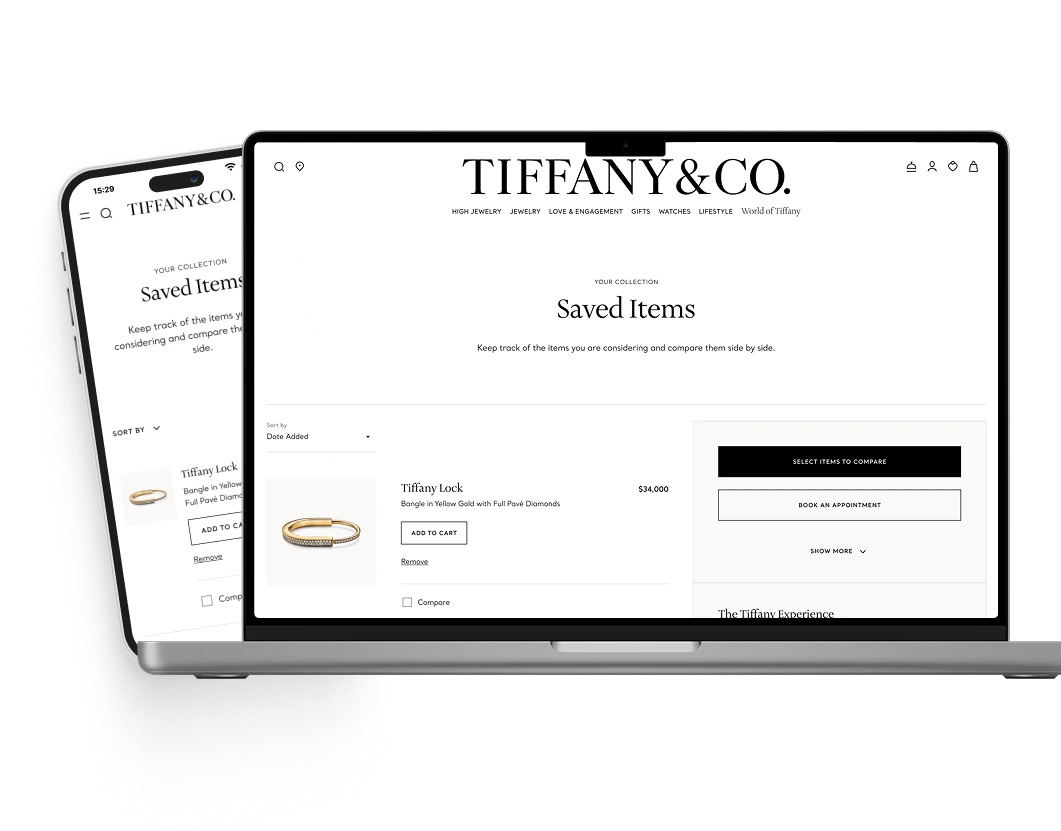
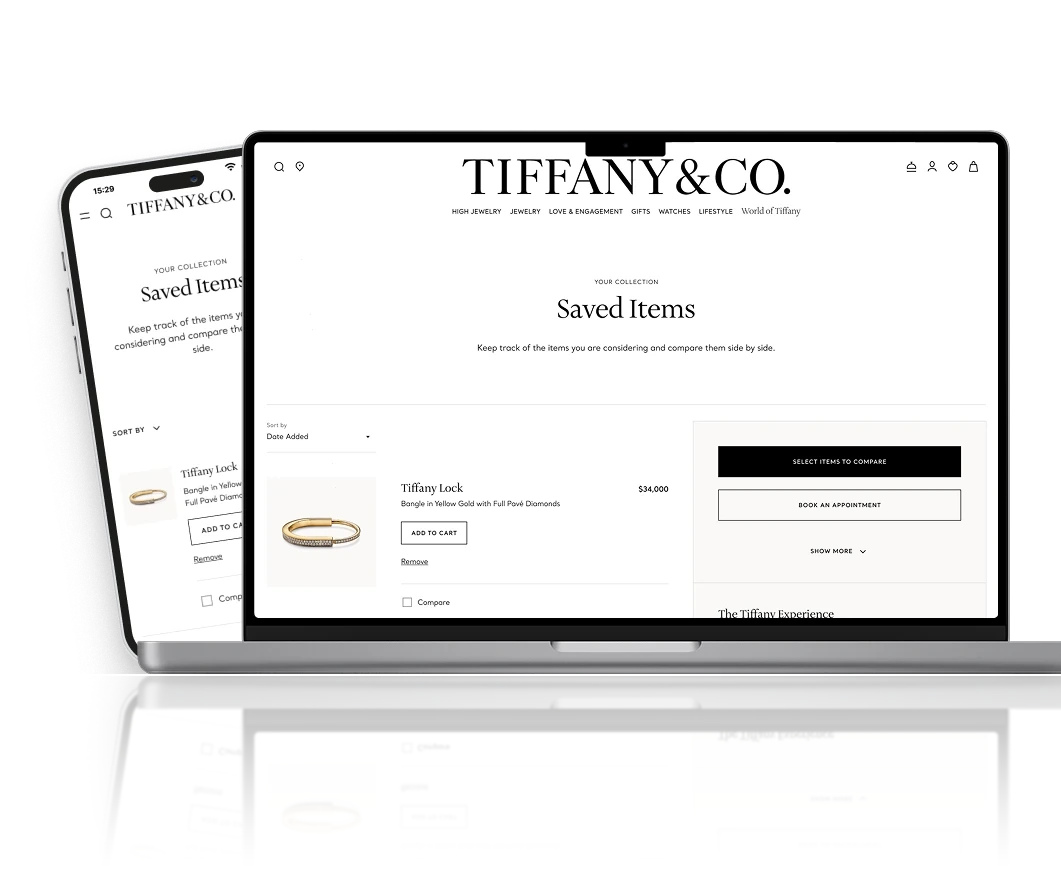
Lift Night Edition cards and bar, match the highlighter to Day, and make the date stamps neutral

diff --git a/case-studies/tiffany-wishlist/index.html b/case-studies/tiffany-wishlist/index.html
@@ -26,9 +26,9 @@
   <link rel="preconnect" href="https://fonts.gstatic.com" crossorigin>
   <link href="https://fonts.googleapis.com/css2?family=Playfair+Display:ital,wght@0,700;0,900;1,900&family=Lora:ital,wght@0,400;0,700;1,400&family=Inter:wght@400;500;600;700&family=Manufacturing+Consent&display=swap" rel="stylesheet">
   <!-- Same ?v= as index.html; bump all three together -->
-  <link rel="stylesheet" href="../../assets/css/style.css?v=2026-11-25e">
-  <link rel="stylesheet" href="../../assets/css/case-study.css?v=2026-11-25e">
-  <script src="../../assets/js/main.js?v=2026-11-25e" defer></script>
+  <link rel="stylesheet" href="../../assets/css/style.css?v=2026-11-25g">
+  <link rel="stylesheet" href="../../assets/css/case-study.css?v=2026-11-25g">
+  <script src="../../assets/js/main.js?v=2026-11-25g" defer></script>
 </head>
 <body>
 
@@ -121,8 +121,8 @@
     <p class="cs-role"><span class="cs-role-title">UX Design Intern</span><span class="cs-role-meta">Tiffany &amp; Co.<span class="cs-sep" aria-hidden="true">|</span>10&nbsp;weeks</span></p>
   </div>
   <!-- Transparent cut-out, so it sits on the page without the gold frame (.cs-media--bare) -->
-  <figure class="cs-media cs-media--bare animate-in delay-1" style="--ratio:1061/831">
-    <img src="assets/images/hero.webp" width="1061" height="831" alt="A laptop showing the Tiffany &amp; Co. Saved Items page, with a phone behind it showing the same page on mobile" fetchpriority="high">
+  <figure class="cs-media cs-media--bare animate-in delay-1" style="--ratio:1061/878">
+    <img src="assets/images/hero.webp" width="1061" height="878" alt="A laptop showing the Tiffany &amp; Co. Saved Items page, with a phone behind it showing the same page on mobile" fetchpriority="high">
   </figure>
 </section>
 

diff --git a/assets/css/style.css b/assets/css/style.css
@@ -41,13 +41,13 @@
   --gold:  #C9A96E;
   --terra: #D07A6F;
   --stamp: var(--terra);
-  --hl: rgba(140,65,50,.40);
+  --hl: rgba(208,122,111,.28);
   --foot:  #0A0F18;   /* deeper than the page, as in light */
 
   /* Sticky bars, once stuck (.is-stuck, set in main.js). A shadow barely
      shows on a near-black page, so in dark the bar is also lifted one
      step lighter than the page. */
-  --bar-bg: #1A2538;
+  --bar-bg: #1F2B43;
   --bar-shadow: 0 6px 20px rgba(0,0,0,0.9);
 
   /* Vellum steps. v45, v55 and v60 are text greys, raised above their
@@ -618,7 +618,7 @@ html{scrollbar-color:var(--v45) var(--ink);scrollbar-width:thin;}
 /* Dates are stamped: red ink, outlined, set down once (with a slight twist) when the entry first scrolls in */
 .stamp{
   display:inline-block;padding:2px 8px;margin-bottom:6px;
-  color:var(--stamp);border:1px solid currentColor;border-radius:2px;
+  color:var(--v85);border:1px solid currentColor;border-radius:2px;
   transform-origin:left center;
 }
 @keyframes stampDown{
@@ -793,7 +793,7 @@ html{scrollbar-color:var(--v45) var(--ink);scrollbar-width:thin;}
   display:grid;grid-template-columns:1fr;gap:var(--sp-lg);
 }
 .pa-card{
-  background:var(--v05);border:1px solid var(--v35);
+  background:var(--v08);border:1px solid var(--v35);
   border-radius:4px;overflow:hidden;
   transition:border-color var(--t),box-shadow var(--t),transform var(--t);
 }

diff --git a/case-studies/clueline/index.html b/case-studies/clueline/index.html
@@ -26,9 +26,9 @@
   <link rel="preconnect" href="https://fonts.gstatic.com" crossorigin>
   <link href="https://fonts.googleapis.com/css2?family=Playfair+Display:ital,wght@0,700;0,900;1,900&family=Lora:ital,wght@0,400;0,700;1,400&family=Inter:wght@400;500;600;700&family=Manufacturing+Consent&display=swap" rel="stylesheet">
   <!-- Same ?v= as index.html; bump all three together -->
-  <link rel="stylesheet" href="../../assets/css/style.css?v=2026-11-25e">
-  <link rel="stylesheet" href="../../assets/css/case-study.css?v=2026-11-25e">
-  <script src="../../assets/js/main.js?v=2026-11-25e" defer></script>
+  <link rel="stylesheet" href="../../assets/css/style.css?v=2026-11-25g">
+  <link rel="stylesheet" href="../../assets/css/case-study.css?v=2026-11-25g">
+  <script src="../../assets/js/main.js?v=2026-11-25g" defer></script>
 </head>
 <body>
 

diff --git a/case-studies/insightcuts/index.html b/case-studies/insightcuts/index.html
@@ -26,9 +26,9 @@
   <link rel="preconnect" href="https://fonts.gstatic.com" crossorigin>
   <link href="https://fonts.googleapis.com/css2?family=Playfair+Display:ital,wght@0,700;0,900;1,900&family=Lora:ital,wght@0,400;0,700;1,400&family=Inter:wght@400;500;600;700&family=Manufacturing+Consent&display=swap" rel="stylesheet">
   <!-- Same ?v= as index.html; bump all three together -->
-  <link rel="stylesheet" href="../../assets/css/style.css?v=2026-11-25e">
-  <link rel="stylesheet" href="../../assets/css/case-study.css?v=2026-11-25e">
-  <script src="../../assets/js/main.js?v=2026-11-25e" defer></script>
+  <link rel="stylesheet" href="../../assets/css/style.css?v=2026-11-25g">
+  <link rel="stylesheet" href="../../assets/css/case-study.css?v=2026-11-25g">
+  <script src="../../assets/js/main.js?v=2026-11-25g" defer></script>
 </head>
 <body>
 

diff --git a/case-studies/lendi/index.html b/case-studies/lendi/index.html
@@ -26,9 +26,9 @@
   <link rel="preconnect" href="https://fonts.gstatic.com" crossorigin>
   <link href="https://fonts.googleapis.com/css2?family=Playfair+Display:ital,wght@0,700;0,900;1,900&family=Lora:ital,wght@0,400;0,700;1,400&family=Inter:wght@400;500;600;700&family=Manufacturing+Consent&display=swap" rel="stylesheet">
   <!-- Same ?v= as index.html; bump all three together -->
-  <link rel="stylesheet" href="../../assets/css/style.css?v=2026-11-25e">
-  <link rel="stylesheet" href="../../assets/css/case-study.css?v=2026-11-25e">
-  <script src="../../assets/js/main.js?v=2026-11-25e" defer></script>
+  <link rel="stylesheet" href="../../assets/css/style.css?v=2026-11-25g">
+  <link rel="stylesheet" href="../../assets/css/case-study.css?v=2026-11-25g">
+  <script src="../../assets/js/main.js?v=2026-11-25g" defer></script>
 </head>
 <body>
 

diff --git a/case-studies/worlds-of-hello/index.html b/case-studies/worlds-of-hello/index.html
@@ -26,9 +26,9 @@
   <link rel="preconnect" href="https://fonts.gstatic.com" crossorigin>
   <link href="https://fonts.googleapis.com/css2?family=Playfair+Display:ital,wght@0,700;0,900;1,900&family=Lora:ital,wght@0,400;0,700;1,400&family=Inter:wght@400;500;600;700&family=Manufacturing+Consent&display=swap" rel="stylesheet">
   <!-- Same ?v= as index.html; bump all three together -->
-  <link rel="stylesheet" href="../../assets/css/style.css?v=2026-11-25e">
-  <link rel="stylesheet" href="../../assets/css/case-study.css?v=2026-11-25e">
-  <script src="../../assets/js/main.js?v=2026-11-25e" defer></script>
+  <link rel="stylesheet" href="../../assets/css/style.css?v=2026-11-25g">
+  <link rel="stylesheet" href="../../assets/css/case-study.css?v=2026-11-25g">
+  <script src="../../assets/js/main.js?v=2026-11-25g" defer></script>
 </head>
 <body>
 

diff --git a/index.html b/index.html
@@ -34,8 +34,8 @@
   <link rel="preconnect" href="https://fonts.gstatic.com" crossorigin>
   <link href="https://fonts.googleapis.com/css2?family=Playfair+Display:ital,wght@0,700;0,900;1,900&family=Lora:ital,wght@0,400;0,700;1,400&family=Inter:wght@400;500;600;700&family=Manufacturing+Consent&display=swap" rel="stylesheet">
   <!-- When style.css or main.js changes, set ?v= on both lines, and on every case-studies/*/index.html, to the deploy date (YYYY-MM-DD, plus b, c… for a second deploy that day) so returning visitors get the new files -->
-  <link rel="stylesheet" href="./assets/css/style.css?v=2026-11-25e">
-  <script src="./assets/js/main.js?v=2026-11-25e" defer></script>
+  <link rel="stylesheet" href="./assets/css/style.css?v=2026-11-25g">
+  <script src="./assets/js/main.js?v=2026-11-25g" defer></script>
 </head>
 <body>
 
